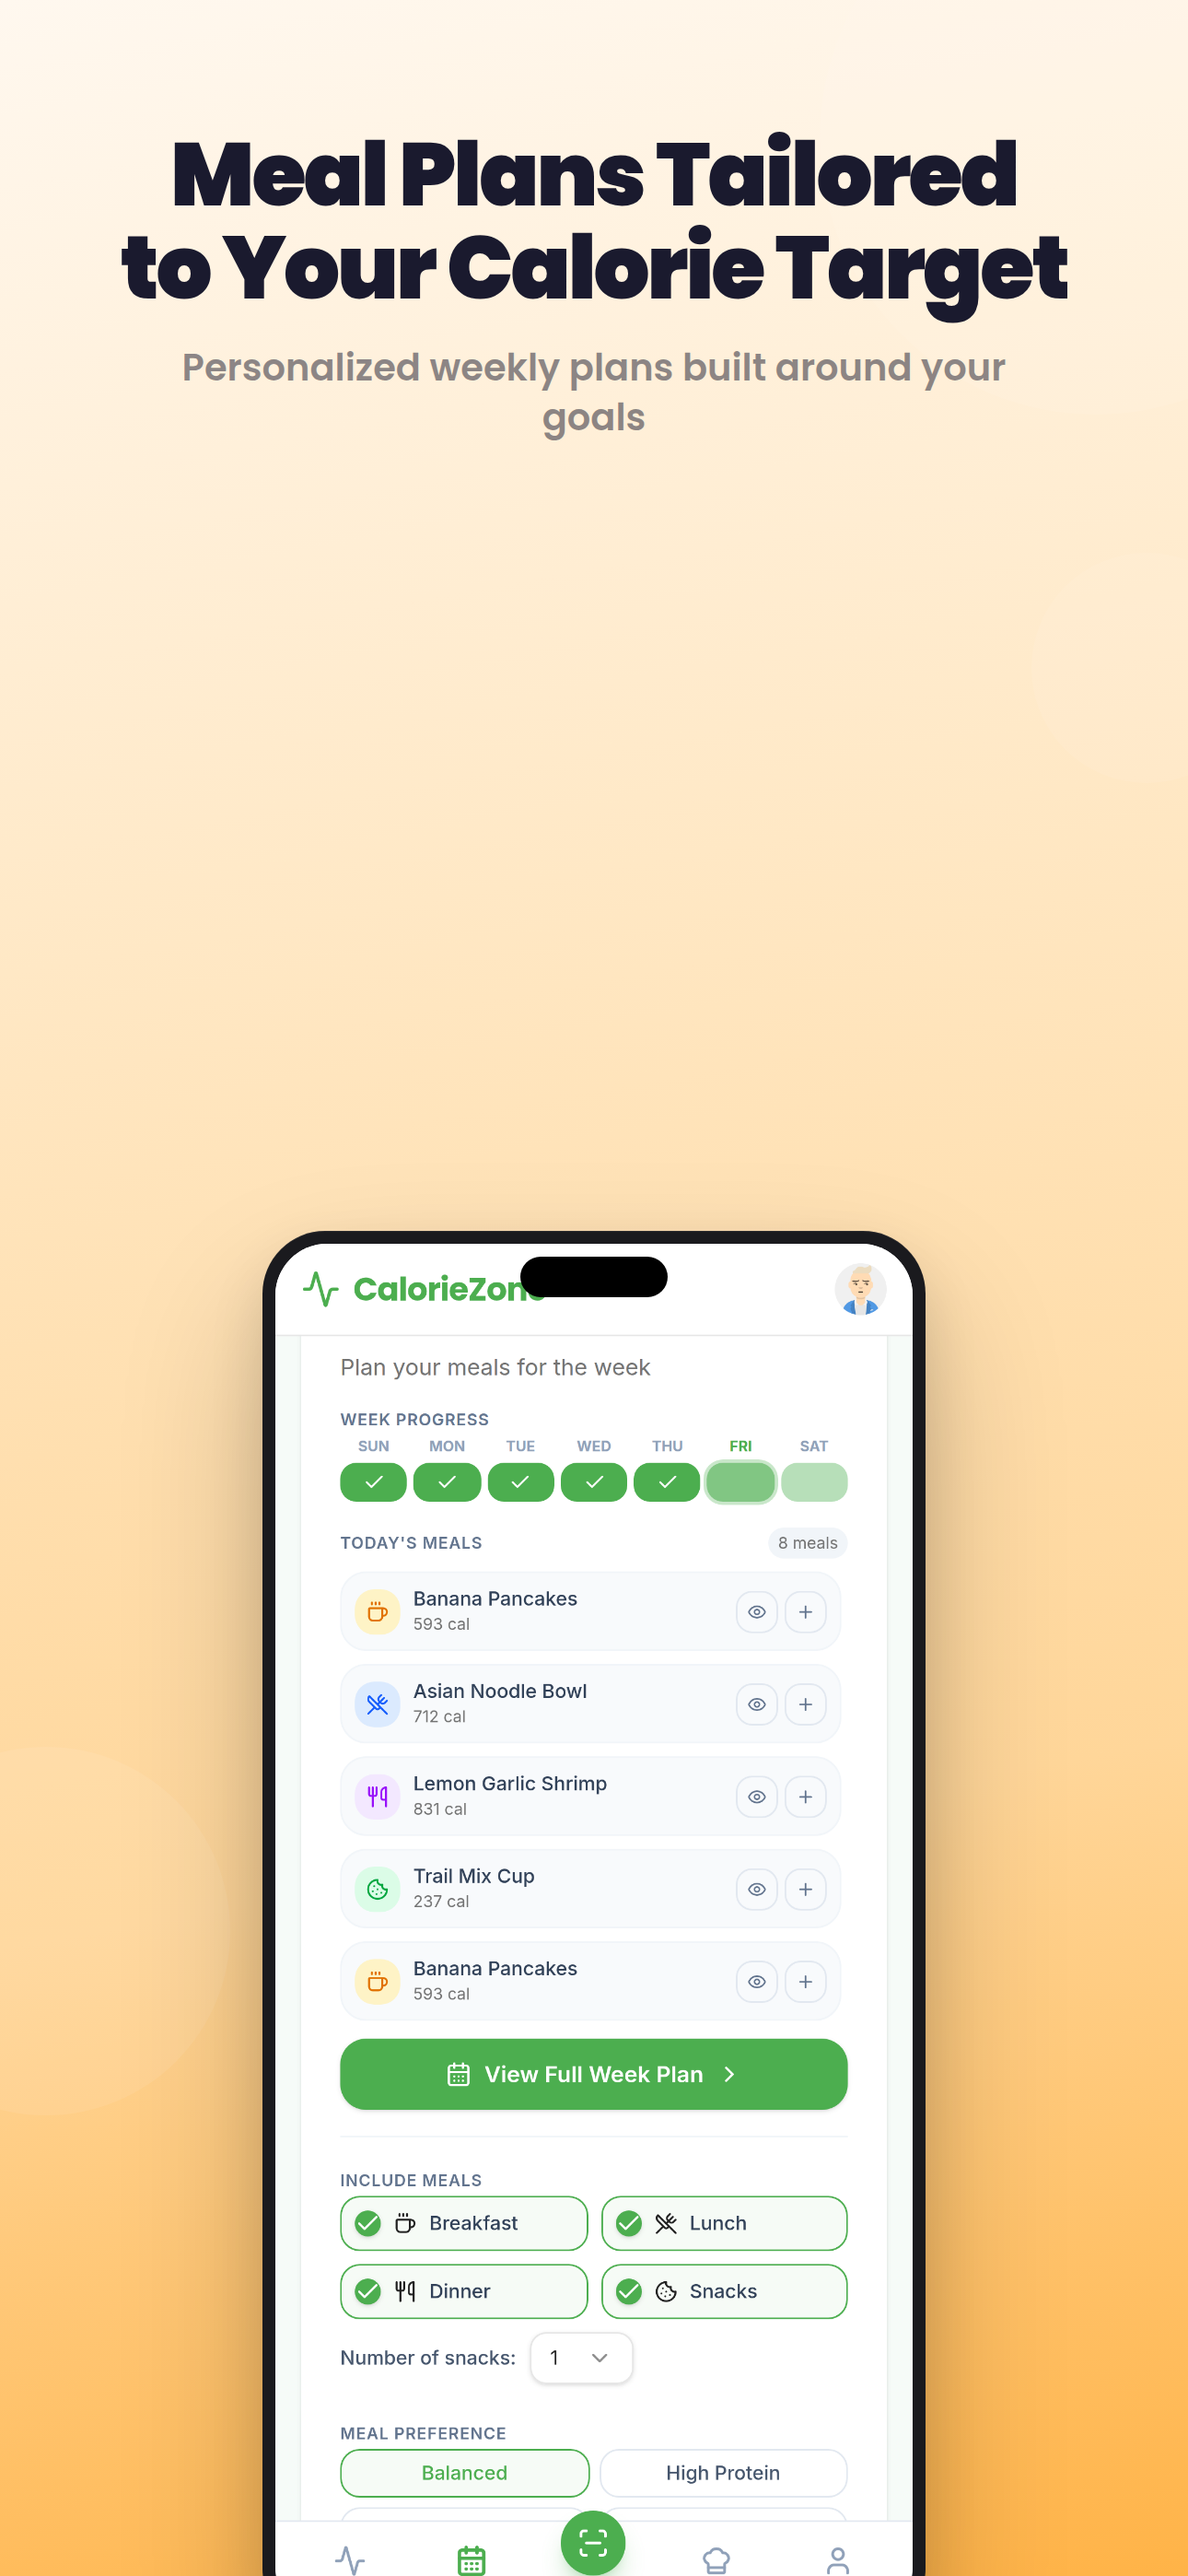
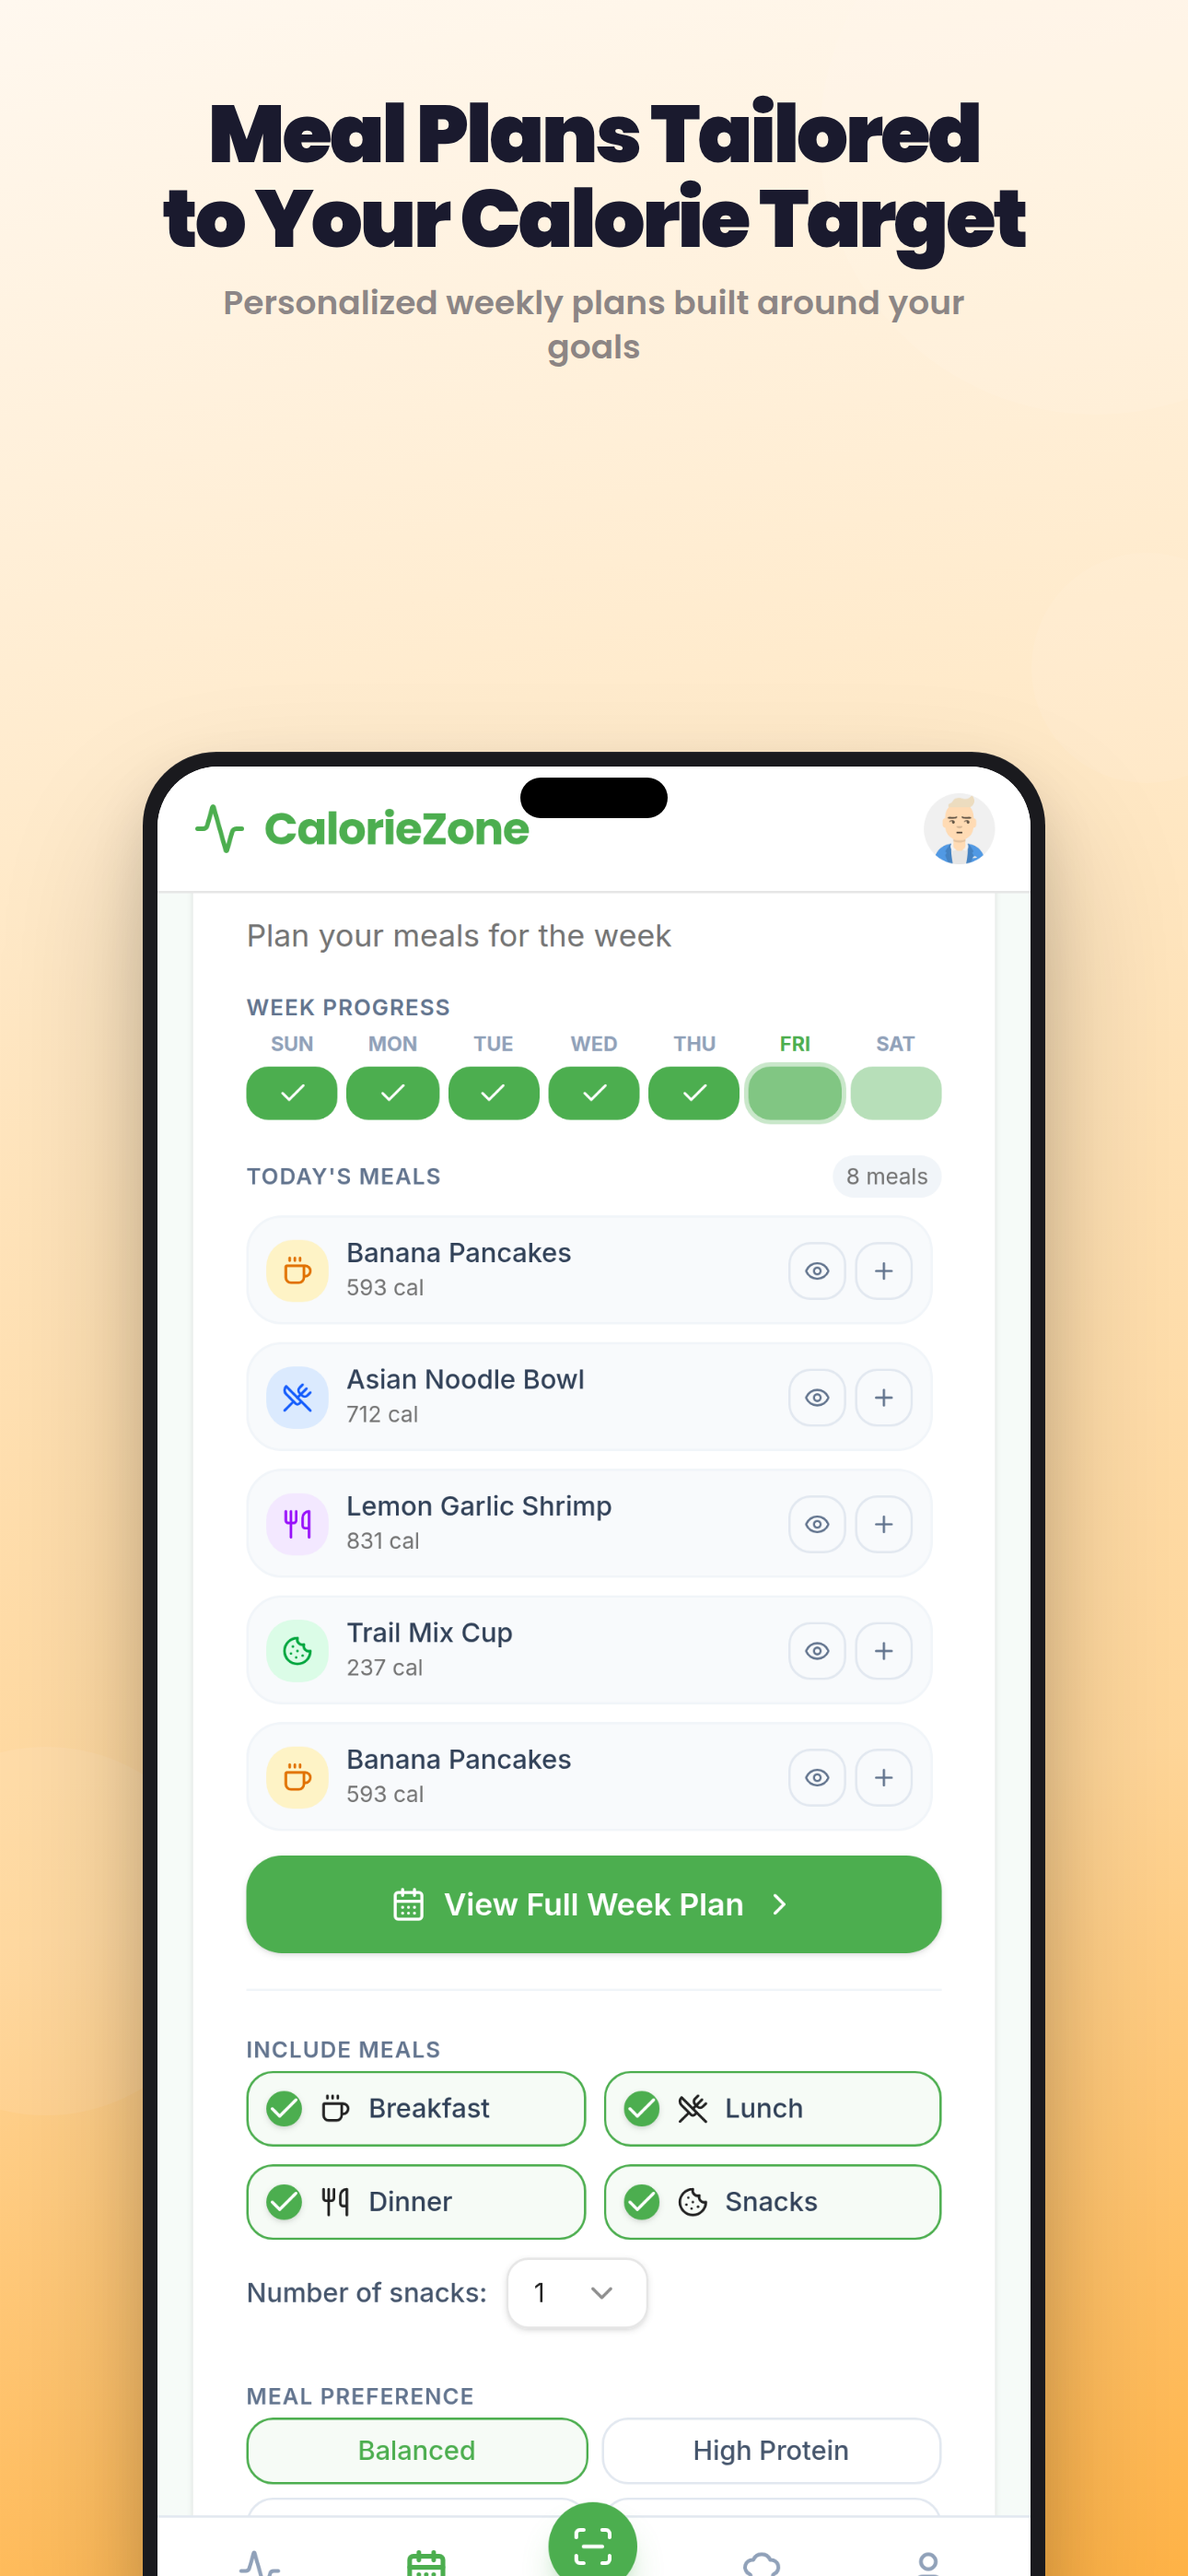
Adjust promotional screenshot layout and sizing for better visual appeal
Update HTML template and regenerate promotional screenshots to increase phone image size and adjust text/frame dimensions for a cleaner, bordered look.

Replit-Commit-Author: Agent
Replit-Commit-Session-Id: d0c98cd4-3401-4b9a-9fcc-3167ef5b7d4c
Replit-Commit-Checkpoint-Type: full_checkpoint
Replit-Commit-Event-Id: 0aa1468d-2ec7-42e1-b0af-33eb2d607537
Replit-Commit-Screenshot-Url: https://storage.googleapis.com/screenshot-production-us-central1/b5252e75-7d72-4a27-a063-837869a7ea78/d0c98cd4-3401-4b9a-9fcc-3167ef5b7d4c/rSIcFYS
Replit-Helium-Checkpoint-Created: true

diff --git a/screenshots/promo-template.html b/screenshots/promo-template.html
@@ -35,22 +35,22 @@
   }
 
   .text-area {
-    padding: 140px 90px 0;
+    padding: 100px 80px 0;
     text-align: center;
     z-index: 2;
   }
 
   .headline {
-    font-size: 96px;
+    font-size: 88px;
     font-weight: 900;
     line-height: 1.05;
     color: #1a1a2e;
     letter-spacing: -3px;
-    margin-bottom: 30px;
+    margin-bottom: 20px;
   }
 
   .subtext {
-    font-size: 40px;
+    font-size: 36px;
     font-weight: 600;
     color: rgba(26, 26, 46, 0.5);
     line-height: 1.35;
@@ -67,23 +67,23 @@
   }
 
   .phone-frame {
-    width: 720px;
-    height: 1520px;
+    width: 980px;
+    height: 2060px;
     background: #1a1a1e;
-    border-radius: 68px;
-    padding: 14px;
+    border-radius: 80px;
+    padding: 16px;
     box-shadow:
       0 80px 160px rgba(0,0,0,0.2),
       0 30px 60px rgba(0,0,0,0.12),
       inset 0 1px 0 rgba(255,255,255,0.08);
     position: relative;
-    margin-bottom: -60px;
+    margin-bottom: -80px;
   }
 
   .phone-screen {
     width: 100%;
     height: 100%;
-    border-radius: 56px;
+    border-radius: 66px;
     overflow: hidden;
     background: #fff;
   }
